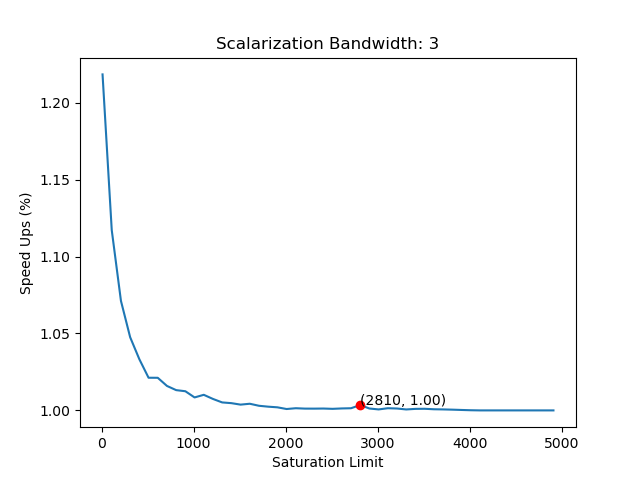
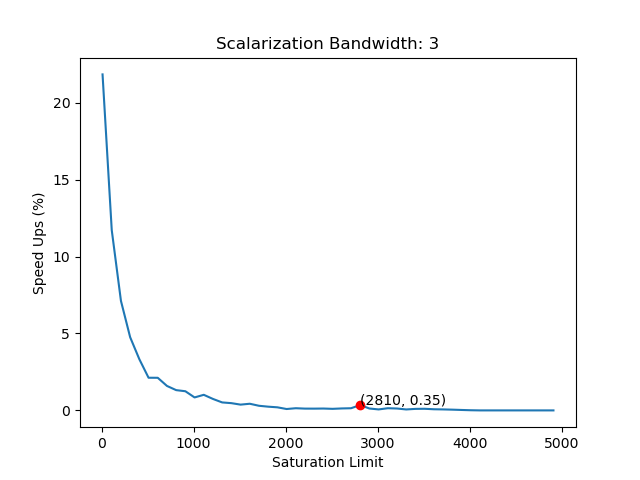
getting average duration of split instruction duration

diff --git a/analysis/heuristic_sim.py b/analysis/heuristic_sim.py
@@ -171,6 +171,7 @@ def sat_counters(tmasks, instrs, scalarize_t0, theta=1000, num_threads=32, capac
 	speed_up	 		 = 0
 	scalarized_threads 	 = {}
 	scalar_mask 		 = [0]*num_threads
+	average_div_dur 	 = [0]*num_threads
 	per_thread_count     = [0]*num_threads
 	sat_counters		 = [0]*num_threads
 	reconverge_tmask	 = [""]*num_threads
@@ -179,6 +180,10 @@ def sat_counters(tmasks, instrs, scalarize_t0, theta=1000, num_threads=32, capac
 		if(check_tmasks):
 			check_tmasks_list.append(tmask)	
 		# Check if tmask is on the scalar core or not
+
+		for idxs, bit in enumerate(scalar_mask):
+			if (bit):
+				average_div_dur[idxs] += 1
 
 		tmask_on_simt, active_threads = and_scalar_mask(tmask, scalar_mask)
 		total_active_threads += active_threads
@@ -256,8 +261,12 @@ def sat_counters(tmasks, instrs, scalarize_t0, theta=1000, num_threads=32, capac
 	frac_ocp_full = 0
 	if(num_check_occupancy != 0):
 		frac_ocp_full	= num_occupancy_full / num_check_occupancy
+
+	for idx in range(len(average_div_dur)):
+		if(per_thread_count[idx] > 0):
+			average_div_dur[idx] /= per_thread_count[idx]
 	
-	return speed_up, scalarized_threads, max_occupancy, num_reconv, cycles_saved, per_thread_count, simd_efficiency, frac_pred, frac_ocp_full, div_instrs
+	return speed_up, scalarized_threads, max_occupancy, num_reconv, cycles_saved, per_thread_count, simd_efficiency, frac_pred, frac_ocp_full, div_instrs, average_div_dur
 
 
 			
@@ -335,8 +344,8 @@ if __name__ == "__main__":
 		print(instr_line)
 		print("Error opening the log file f'{source}")
 
-	thetas = range(10, 5000, 100)
-	num_scalars = range(1, 9)
+	thetas = [10]#range(10, 5000, 100)
+	num_scalars = [1]#range(1, 9)
 	capacity = 16
 	
 	expirement = {}
@@ -393,7 +402,7 @@ if __name__ == "__main__":
 				else:
 					scalarize_t0 = 0
 
-				speed_up, scalarized_threads, max_occupancy, num_reconv, cycles_saved, per_thread_count, simd_efficiency, frac_pred, frac_ocp_full, div_instrs = sat_counters(tmasks, instrs, scalarize_t0, theta=theta, num_threads=num_threads, capacity=capacity, num_scalar=num_scalar)
+				speed_up, scalarized_threads, max_occupancy, num_reconv, cycles_saved, per_thread_count, simd_efficiency, frac_pred, frac_ocp_full, div_instrs, average_div_dur = sat_counters(tmasks, instrs, scalarize_t0, theta=theta, num_threads=num_threads, capacity=capacity, num_scalar=num_scalar)
 				num_scalarizations = 0
 
 				for scalar_tmask in scalarized_threads.keys():
@@ -412,6 +421,7 @@ if __name__ == "__main__":
 				warps_stats[warp_id].append(scalarized_threads)
 				warps_stats[warp_id].append(per_thread_count)
 				warps_stats[warp_id].append(div_instrs)
+				warps_stats[warp_id].append(average_div_dur)
 
 				avg_speed_up 			+= speed_up
 				avg_num_cycles_saved 	+= cycles_saved
@@ -443,12 +453,12 @@ if __name__ == "__main__":
 					for tmask in scalarized_threads.keys():
 						print(f'{tmask:<32} | {scalarized_threads[tmask]}')
 					print(f'\nThread Scalarization:')
-					print("Thread Number | Number of Times Thread Scalarized")
-					print("-------------------------------------------------")
+					print("Thread Number | Number of Times Thread Scalarized | Average Divergence Duration")
+					print("-------------------------------------------------------------------------------")
 					for tid in range(len(per_thread_count)):
 						if per_thread_count[tid] > 0:
-							print(f'{tid:<4}          | {per_thread_count[tid]}')
-					print("******************************************")
+							print(f'{tid:<4}          | {per_thread_count[tid]:<4}                              | {average_div_dur[tid]:.1f}')
+					print("*******************************************************************************")
 
 			avg_speed_up 			/= num_warps
 			avg_num_cycles_saved 	/= num_warps
@@ -469,7 +479,7 @@ if __name__ == "__main__":
 				print(f'Saturating Counters: Theta={theta}, Capacity={capacity}, Thread Scalarization Bandwidth={num_scalar}')
 				print(f'Avg. Number of Cycles Saved:           {avg_num_cycles_saved}')
 				print(f'Avg. Percentage of Total Cycles Saved: {avg_pct_cycles_saved:.2f}')
-				print(f'Avg. Speed Up (%): 		       {avg_speed_up:.3f}')
+				print(f'Avg. Speed Up (%): 		       {(avg_speed_up-1)*100:.3f}')
 				print(f'Avg. Rel SIMD Eff:                     {avg_rel_simd_efficiency:.3f}')
 				print(f'Avg. Sim SIMD Eff:	               {avg_simd_efficiency:.3f}')
 				print(f'Avg. Percentage of Not SPLIT Div:      {avg_pct_non_split_div:.3f}')
@@ -483,6 +493,6 @@ if __name__ == "__main__":
 			progress = number_of_expirements_done / num_expirements
 			print(f"\rExpirement Progress: {progress*100:.0f}%", end="")
 
-
+	exit()
 	with open(results_file, "w") as f:
 		json.dump(expirement, f)

diff --git a/analysis/plot.py b/analysis/plot.py
@@ -48,7 +48,7 @@ if __name__ == "__main__":
         data = num_scalar_data[num_scalar]
 
         thetas = [expr[theta_idx-1] for expr in data]
-        avg_speed_ups = [expr[avg_speed_up_idx-1] for expr in data]
+        avg_speed_ups = [(expr[avg_speed_up_idx-1]-1)*100 for expr in data]
         avg_pct_cycles_saved = [expr[avg_pct_cycles_saved_idx-1] for expr in data]
 
         avg_rel_simd_efficiency = [expr[avg_rel_simd_efficiency_idx-1] for expr in data]
